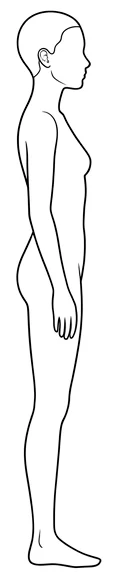
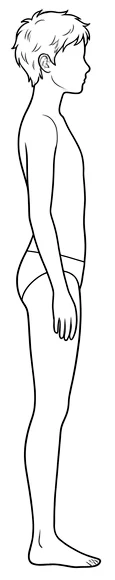
Guide de mesure : nouvelle planche (silhouette androgyne), marques recalees (local, non pousse)

diff --git a/assets/vg-mesures.js b/assets/vg-mesures.js
@@ -47,8 +47,8 @@
   var front = function () { return img('front', 43, 3.2, 114, 348); };
   var back = function () { return img('back', 47.2, 3.2, 105, 348); };
   var profile = function () { return img('side', 64, 3.2, 69, 348); };
-  var closeFront = function () { return img('headf', 28.7, 10, 142.6, 204.6); };
-  var closeSide = function () { return img('heads', 10, 10, 179.8, 204.6); };
+  var closeFront = function () { return img('headf', 28.7, 10, 142.6, 207.7); };
+  var closeSide = function () { return img('heads', 10, 10, 179.8, 207.7); };
   function bd(n, x, y) { return '<g class="bd"><circle class="hz hzf" cx="' + x + '" cy="' + y + '" r="14"/><circle class="b" cx="' + x + '" cy="' + y + '" r="9"/><text x="' + x + '" y="' + (y + 4) + '">' + n + '</text></g>'; }
   // Mesure : halo (visible quand « on ») + trait + badge ; leader quand le badge est décalé.
   function ring(n, cx, cy, rx, ry, bx, by) {
@@ -69,20 +69,20 @@
     var hgt = N.height ? g('height', arrow(14, 8, 14, 344) + bd(N.height, 14, 176)) : '';
     var ARM = 'M141,76 L146,128 L147,184';
     if (cat === 'haut') {
-      v = view(0, T.f, front() + hgt + g('chest', ring(N.chest, 100, 99, 34, 5)) + g('waist', ring(N.waist, 100, 136, 29, 4.5)) + g('hips', ring(N.hips, 100, 183, 37, 5))
+      v = view(0, T.f, front() + hgt + g('chest', ring(N.chest, 100, 99, 32, 5)) + g('waist', ring(N.waist, 100, 136, 29, 4.5)) + g('hips', ring(N.hips, 100, 183, 32, 5))
         + g('arm', parrow(ARM) + bd(N.arm, 152, 130)) + g('wrist', ring(N.wrist, 139, 183, 5, 2, 170, 183)))
         + view(230, T.b, back() + g('shoulders', arrow(77, 99, 123, 99) + bd(N.shoulders, 100, 99)) + g('shl', arrow(94, 63, 60, 78) + bd(N.shl, 70, 58)) + g('back', arrow(100, 66, 100, 138) + bd(N.back, 100, 120)));
     } else if (cat === 'bas') {
-      v = view(0, T.f, front() + hgt + g('waist', ring(N.waist, 100, 136, 29, 4.5)) + g('hips', ring(N.hips, 100, 183, 37, 5)) + g('thigh', ring(N.thigh, 87, 219, 12, 3.5, 44, 226))
+      v = view(0, T.f, front() + hgt + g('waist', ring(N.waist, 100, 136, 29, 4.5)) + g('hips', ring(N.hips, 100, 183, 32, 5)) + g('thigh', ring(N.thigh, 87, 219, 12, 3.5, 44, 226))
         + g('calf', ring(N.calf, 87, 285, 10, 3, 44, 285)) + g('hem', arrow(76, 322, 98, 322) + bd(N.hem, 44, 322)))
         + view(230, T.p, profile() + ext(108, 138, 192, 138) + ext(108, 183, 192, 183) + ext(108, 249, 192, 249) + ext(120, 344, 156, 344)
           + g('floor', arrow(132, 138, 132, 344) + bd(N.floor, 132, 241)) + g('inseam', arrow(150, 183, 150, 344) + bd(N.inseam, 150, 263))
           + g('rise', arrow(168, 138, 168, 183) + bd(N.rise, 168, 160)) + g('knee', arrow(186, 138, 186, 249) + bd(N.knee, 186, 194)));
     } else if (cat === 'cou') {
       vb = '0 0 430 252';
-      v = view(0, T.f, closeFront() + g('head', ring(N.head, 100, 66, 52, 9)) + g('neck', ring(N.neck, 100, 199, 34, 6)), 246)
-        + view(230, T.p, closeSide() + g('head', ring(N.head, 109, 63, 69, 8)) + g('neck', ring(N.neck, 129, 201, 20, 5))
-          + ext(100, 13, 192, 13) + ext(84, 187, 192, 187) + g('hh', arrow(188, 13, 188, 187) + bd(N.hh, 188, 100))
+      v = view(0, T.f, closeFront() + g('head', ring(N.head, 100, 97, 54, 9)) + g('neck', ring(N.neck, 100, 202, 34, 6)), 246)
+        + view(230, T.p, closeSide() + g('head', ring(N.head, 106, 97, 73, 8)) + g('neck', ring(N.neck, 129, 201, 20, 5))
+          + ext(100, 19, 192, 19) + ext(84, 187, 192, 187) + g('hh', arrow(188, 19, 188, 187) + bd(N.hh, 188, 103))
           + g('nh', ext(106, 215, 166, 215) + arrow(160, 215, 160, 187) + bd(N.nh, 182, 204)), 246);
     } else if (cat === 'acc') {
       vb = '0 0 430 200';
